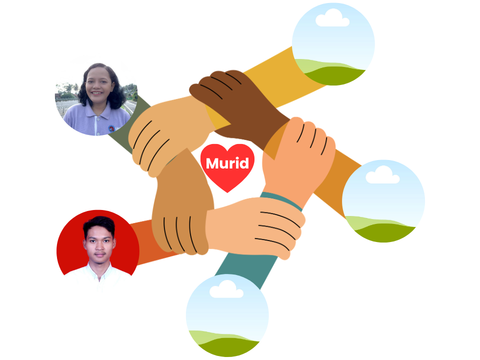
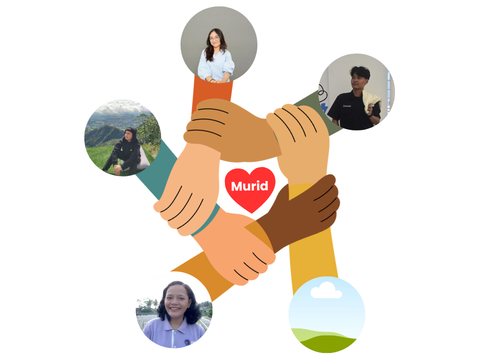
fixx1

diff --git a/templates/profil.html b/templates/profil.html
@@ -28,19 +28,11 @@
       <div class="profil-profil-page">
         <h1>Gemati</h1>
 
-        <div class="profil-image-placeholder">
-          <p>GEMATI akronim dari Game Tambah Kurang Interaktif.</p>
-          <p>Game ini dibuat untuk memfasilitasi murid belajar operasi penjumlahan dan pengurangan bilangan bulat secara interaktif.</p>
-          <p>Game terbagi atas 2 permainan, yaitu <strong>Penjumlahan</strong> dan <strong>Pengurangan</strong>.</p>
-          <p>Masing-masing permainan terbagi menjadi 4 tipe, yaitu bilangan:</p>
-          <ul>
-            <li>Positif dan Positif</li>
-            <li>Negatif dan Negatif</li>
-            <li>Positif dan Negatif</li>
-            <li>Negatif dan Positif</li>
-          </ul>
-          <p>Inilah cara kami menggenggam dengan hati (gemati) murid yang mau belajar.</p>
-        </div>
+       <div class="profil-image-placeholder profil-image-placeholder--centered">
+            <div class="profil-image-container">
+              <img src="/static/img/aduh.png" alt="Gambar tengah" />
+            </div>
+          </div>
 
         <div class="profil-description-actions actions-split">
           <a class="page-arrow" href="/profil/selanjutnya" aria-label="Lanjut ke halaman selanjutnya">

diff --git a/templates/home.html b/templates/home.html
@@ -19,11 +19,7 @@
   </header>
 
   <!-- Middle decorations (temple, tower, characters) -->
-  <img class="janur janur-left" src="/static/img/jenur_kiri.png" alt="" aria-hidden="true">
-  <img class="janur janur-right" src="/static/img/janur_kanan.png" alt="" aria-hidden="true">
-  <img class="temple-image" src="/static/img/candi.png" alt="" aria-hidden="true">
-  <img class="tower-image" src="/static/img/tugu.png" alt="" aria-hidden="true">
-  <img class="people-image" src="/static/img/orang.png" alt="" aria-hidden="true">
+
   <img class="wayang-image" src="/static/img/wayang.png" alt="" aria-hidden="true">
 
   <!-- Bottom decorations -->

diff --git a/templates/profil_selanjutnya.html b/templates/profil_selanjutnya.html
@@ -25,7 +25,7 @@
 
     <div class="profil-panel">
       <div class="profil-profil-page">
-        <h1>Profil</h1>
+        <h1>Persembahan dari kami</h1>
 
           <div class="profil-image-placeholder profil-image-placeholder--centered">
             <div class="profil-image-container">
@@ -35,7 +35,7 @@
 
           <div class="profil-description-actions actions-split">
             <a class="page-arrow" href="/menu" aria-label="Kembali ke profil">
-              <span>Selamat menikmati permainan</span>
+              <span>Selamat Bermain</span>
             </a>
           </div>
         </div>

diff --git a/templates/menu.html b/templates/menu.html
@@ -35,14 +35,14 @@
         </div>
 
         <div class="game-menu-item">
-          <a href="/permainan">
-            <img src="/static/img/permainan.png" alt="Permainan">
+          <a href="/demo">
+            <img src="/static/img/demo.png" alt="Permainan">
           </a>
         </div>
 
         <div class="game-menu-item">
-          <a href="/demo">
-            <img src="/static/img/demo.png" alt="Demo">
+          <a href="/permainan">
+            <img src="/static/img/permainan.png" alt="Demo">
           </a>
         </div>
 
